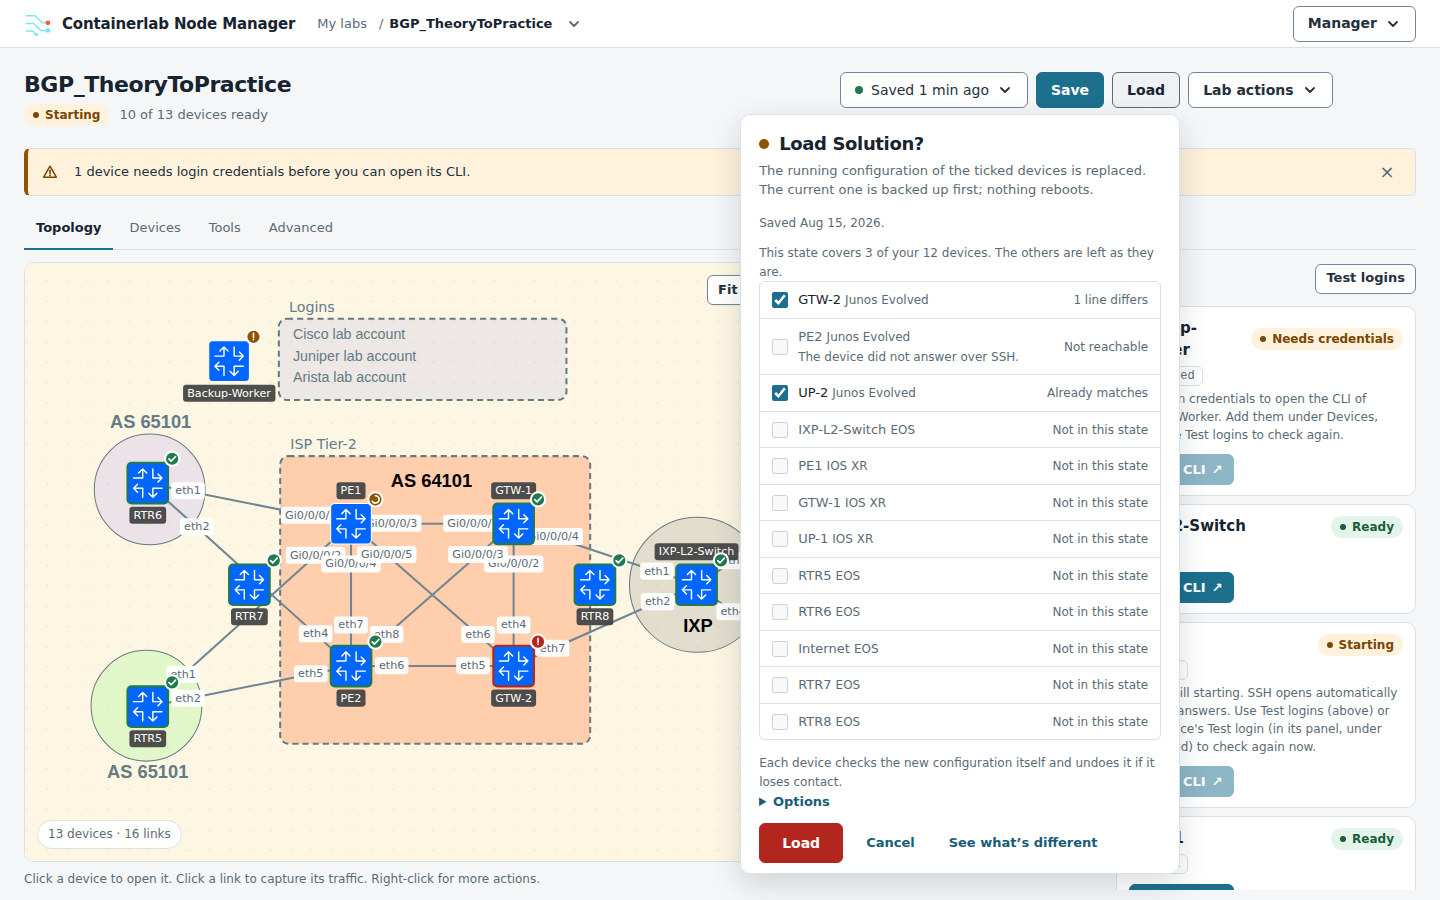
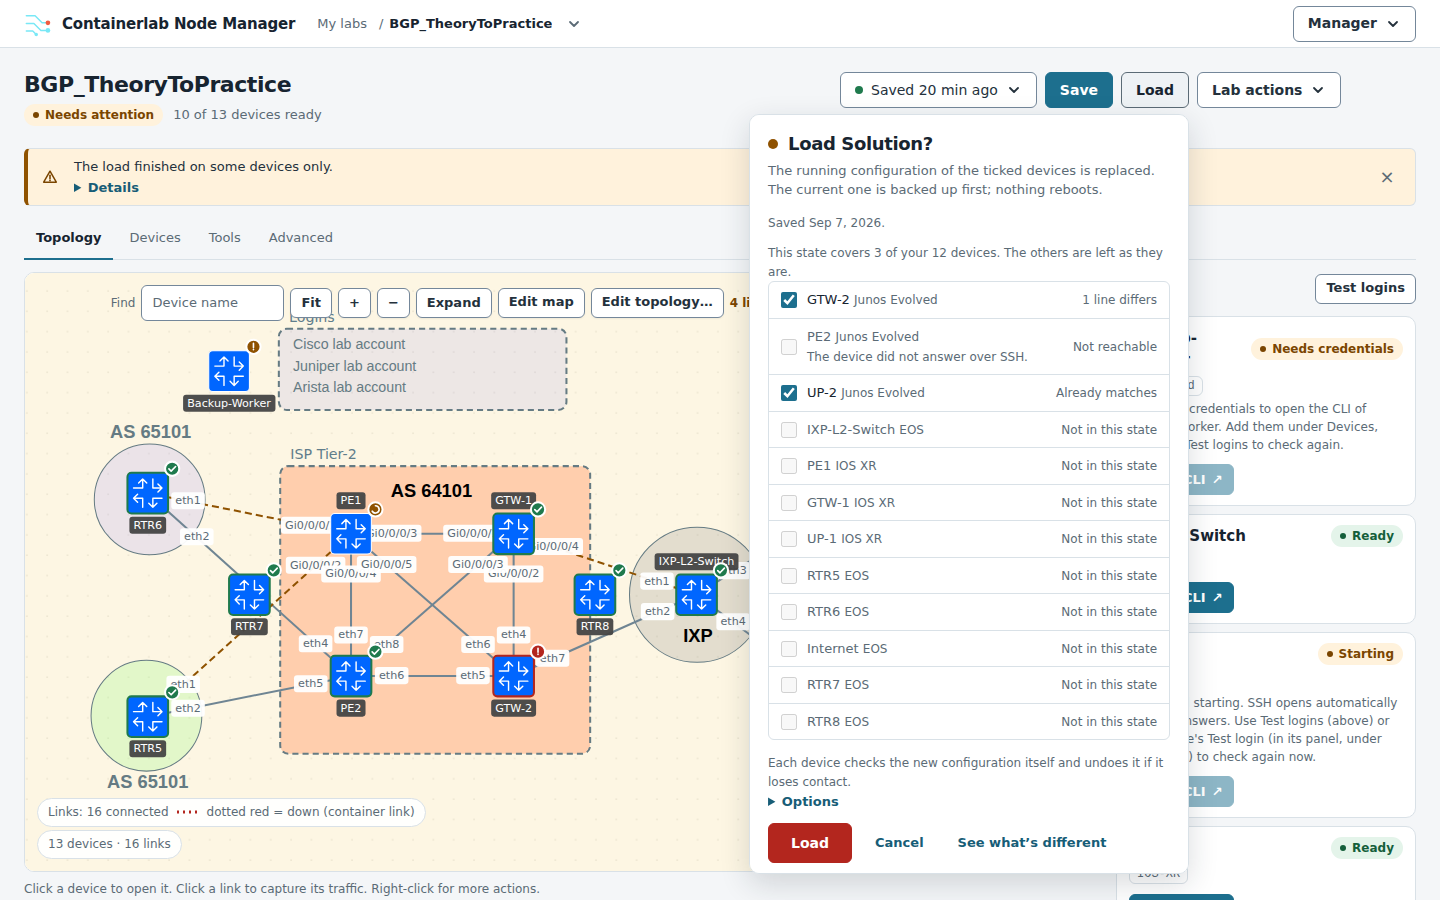
Campaign 2, D06: the 19 user-guide screenshots retaken from the current UI (tour set on the maintained fixture at 1440×900, README shots, the terminal on the live parity lab), each under 400 KB; the tour's save-panel caption follows the picture

diff --git a/docs/maintenance-audit/reports/d06-screenshots-2026-10-27.md b/docs/maintenance-audit/reports/d06-screenshots-2026-10-27.md
@@ -1,0 +1,63 @@
+# D06: user-guide screenshots under docs/images/ (2026-10-27)
+
+Application commit 64e8b66 (UI of 973668e plus the plan-limit sentences). Chromium (Playwright, `/home/archtop/pw-venv/bin/python`), 1440x900,
+device scale factor 1, no `networkidle` waits. Nineteen PNG files are referenced by tracked Markdown (README.md and docs/TOUR.md); all exist.
+Result: 19 referenced, 19 replaced (one of them re-compressed only, see below), 0 kept as-is, 0 missing.
+
+## How the pictures were taken (evidence class: fixture, plus one live terminal)
+
+- Fixture evidence: `docs/redesign/tools/fixture_manager.py --capture --classic` on port 8962 with a fresh scratch `FIXTURE_DATA`, driven by the
+  maintained `docs/redesign/tools/verify_after.py` restricted to 1440x900 through a scratch wrapper (the wrapper only sets `VIEWPORTS`): 107/107 checks,
+  0 console errors, 0 page errors, exit 0. These are the same scripted labs, scenes and framing as the old set (the file name is the script's shot name).
+- `all-versions.png` and `load-confirmation.png`: `docs/redesign/tools/readme_shots.py` against the full fixture (lab `restore-square`), fresh data, port 8961,
+  0 console and page errors, exit 0. It opens All versions and the Load confirmation and never presses Load.
+- `ssh-terminal.png`: the live manager (127.0.0.1:8081), lab `parity`, device cjunos (cJunosEvolved), Open CLI in a new tab, one read-only command
+  (`show version`). Nothing was changed on the VM; no save, no confirm. The screen shows only the lab's 172.20.20.x management address and `show version`
+  output, no credentials. The old picture was a lab (clab-llm-dev2, PTX1) that no longer exists.
+- The fixture was used instead of the live labs for the rest because the pictures need states a read-only pass cannot create (a waiting save, an operation
+  banner, All versions with lab states) and the captions name the 13-device example course lab.
+
+## Table
+
+Sizes in bytes before -> after. "Guide" is `file:line` of the reference. All new files are under 400 KB.
+
+| Image | Guide | What the old picture lacked | Size |
+|---|---|---|---|
+| docs/images/ui/00-home.png | TOUR.md:23 | Home: new subtitle ("...and your saves"), the Find a lab field, unfilled star on the cards | 124720 -> 126230 |
+| docs/images/ui/10-topology.png | TOUR.md:44, README.md:51 | map toolbar now has Find, Edit topology..., the "n links impaired" chip with Clear impairments, the link-state legend; banner is the partial-load notice | 238128 -> 248645 |
+| docs/images/ui/11-topology-context-menu.png | TOUR.md:46 | device menu: Console, Capture traffic..., Restart, Stop, Start (with its reason), Device details | 236942 -> 242132 |
+| docs/images/ui/13-device-drawer-attention.png | TOUR.md:58 | drawer: Capture/Stop/Start buttons, Check credentials, Connection with Copy buttons, Container section, Interfaces/Logs/Impairments sections | 249792 -> 255306 |
+| docs/images/ui/20-devices.png | TOUR.md:56 | a Console button per vrnetlab row | 125750 -> 131442 |
+| docs/images/ui/30-save-panel.png | TOUR.md:76 | panel layout (Saves to / Change..., Last load), 13 lines added in the sentence, new toolbar behind it | 257332 -> 270086 |
+| docs/images/ui/34-all-versions.png | TOUR.md:84 | new toolbar behind, current fixture dates and rows (lab state Solution still opened) | 213329 -> 223954 |
+| docs/images/ui/36-load-confirmation.png | TOUR.md:93 | new toolbar behind, Options disclosure; wording of the device list unchanged | 252667 -> 262468 |
+| docs/images/ui/40-tools.png | TOUR.md:100 | Edit topology... next to Edit map under More tools, Map text, capture no longer "not set up" | 113620 -> 116306 |
+| docs/images/ui/41-capture-dialog.png | TOUR.md:102 | capture dialog with the stack enabled: Scope, Capture on, Interfaces, Your capture sessions with Refresh list | 144599 -> 167488 |
+| docs/images/ui/44-destroy-review.png | TOUR.md:122 | review wording ("Last saved just now", Open CLI sessions notice, 13 running devices affected) and Run with options | 126620 -> 133949 |
+| docs/images/ui/45-operation-banner.png | TOUR.md:124 | banner now also has Stop... while the operation runs | 123407 -> 122097 |
+| docs/images/ui/51-advanced.png | TOUR.md:108 | full page of lab ospf-basics (1440x2062 -> 1440x2089): Deployment details, Credentials, Action logs, Lab operations row, Experimental, Danger zone | 241143 -> 245809 |
+| docs/images/ui/55-cli-launcher.png | TOUR.md:133 | launcher heading, Open all ready CLIs, pop-up/32-CLI sentence (1440x1134 -> 1440x1171) | 113956 -> 123591 |
+| docs/images/ui/61-terminal.png | TOUR.md:135 | terminal toolbar (Smaller, Larger, Reset size, Copy selection, Copy screen, Clear, Save screen/session as text) and the Alt+T notice | 37072 -> 53800 |
+| docs/images/all-versions.png | README.md:57 | same view, new Find/Edit topology... toolbar behind, rows of the current fixture | 129630 -> 144974 |
+| docs/images/load-confirmation.png | README.md:57 | same view (Final, four devices, 4 lines differ / Already matches), new toolbar behind | 144040 -> 158360 |
+| docs/images/ssh-terminal.png | README.md:59 | replaced by a live terminal with the toolbar (old one showed neither the toolbar nor the Alt+T notice) | 83883 -> 91422 |
+| docs/images/wireshark-in-browser.png | README.md:59 | content KEPT (re-compressed only: 128-colour palette, no dithering, 1440x900 unchanged; was over the 400 KB limit). The viewer toolbar markup is unchanged since the picture was taken (capture-session.html differs only in the `?v=`); a new capture needs a real Wireshark session, which a read-only pass cannot start | 513798 -> 122441 |
+
+## Limits
+
+- The wireshark picture shows a lab (clab-llm-dev2) and a PTX1 capture that no longer exist; it was not retaken because that would start a capture session
+  on a live lab. The viewer page's behaviour changed since (page title, status wording for stopped desktops), none of it visible in the picture.
+- Fixture dates and times in the pictures (saves "23 min ago", lab states "Sep 7, 2026") are scripted and move with the fixture clock.
+- The fixture pictures show the lab banner "The load finished on some devices only." (the fixture's last load is a partial one), unlike the old "1 device
+  needs login credentials" banner; both are real banners.
+- Not checked: the 760 and 390 widths (the guides use 1440x900 only).
+
+## Captions and text the lead must fix (TOUR.md and README.md are owned by another worker, so not edited here)
+
+- docs/TOUR.md:64-65: the sentence quotes "12 lines added, 12 removed" for 30-save-panel.png; the picture now reads "13 devices ... 13 lines added, 12 removed."
+  Either quote "13 lines added, 12 removed" or drop the numbers.
+- docs/TOUR.md:48-52 (Devices paragraph): optional, the new 20-devices.png rows carry a Console button for vrnetlab kinds (PE1, GTW-1, UP-1); the
+  Topology paragraph at :37 already names Console.
+- No alt text names something that no longer exists (README.md:51, 57, 59; TOUR.md alt texts at 76, 84, 93 still match what the new pictures show).
+
+Scratch scripts and raw shots: `/tmp/claude-1000/-home-archtop-projects-clab-manager/8c727c84-a148-42fb-b8ff-25a6638ec02a/scratchpad/d06/` (run_va.py, live_term.py).

diff --git a/docs/TOUR.md b/docs/TOUR.md
@@ -61,8 +61,8 @@ confirm); see [Lab operations](LAB-OPERATIONS.md#diagnostics-logs-interfaces-ins
 file, the map and the configuration of every included device go into one folder of your
 repository as one save on the lab VM. The chip then reads *Saving…*, and when the save is made
 its panel opens by itself with the title *Not uploaded yet*, one sentence that says what
-changed (*12 devices changed since your last save: GTW-1, GTW-2, IXP-L2-Switch and 9 more. 12
-lines added, 12 removed.*), the line *To:* with the repository and folder, and four buttons:
+changed (*12 devices changed since your last save: GTW-1, GTW-2, IXP-L2-Switch and 9 more. 13
+lines added, 12 removed.*; the counts are the fixture's), the line *To:* with the repository and folder, and four buttons:
 **Upload** sends the save to the online repository, **Not now** leaves it on the VM (the chip
 then says *1 save to upload*), **See changes** opens what the upload would send and **Details**
 opens the technical record of the save. Nothing is uploaded without **Upload**. A save gets a
